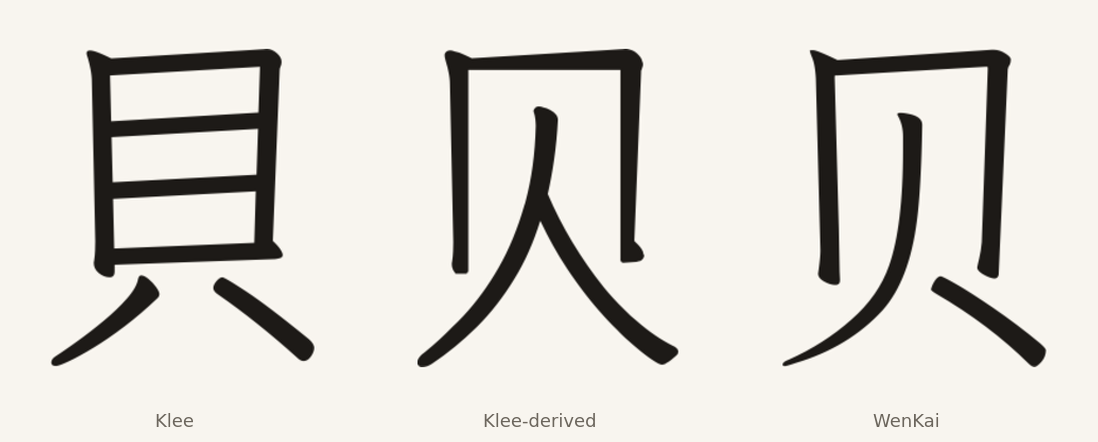
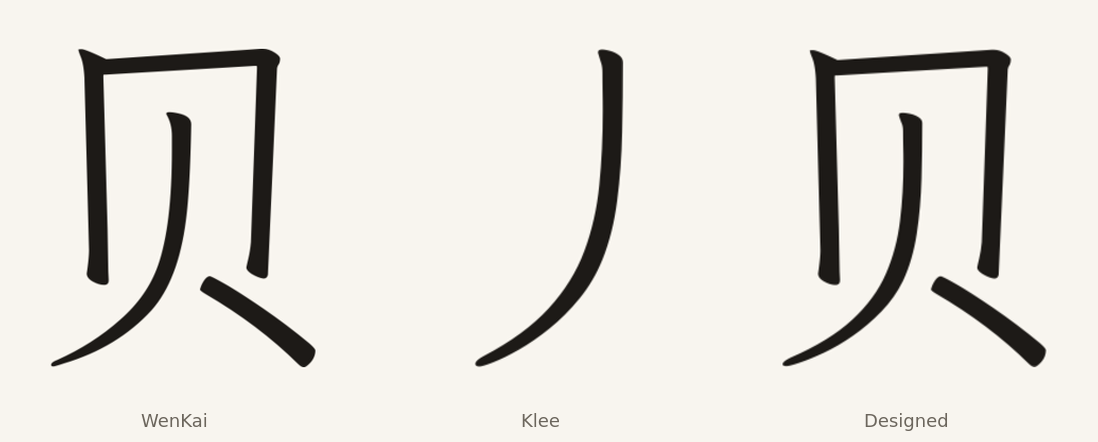
fix: replace only 贝's 丿 with Klee's
Keep WenKai's normalized frame and right dot, which already sit close to
Klee's drawing, and substitute Klee's 丿 U+4E3F for the long left stroke. The
stroke is fitted to the donor 丿's box at 0.916× across and 0.775× down; the
resulting weight residual is 0.993.

diff --git a/docs/bei.md b/docs/bei.md
@@ -1,32 +1,28 @@
-# 贝 from Klee's 貝 and 人
+# 贝 from WenKai's frame and Klee's 丿
 
 贝 U+8D1D is the simplified form of 貝. BabelStone IDS uses it as a leaf in 76
-imported ideographs. Klee draws 貝 with a closed 目 frame and four short legs;
-贝 needs an open 冂 frame and a long 人 inside it.
+imported ideographs. WenKai's frame and right dot are already close to Klee's
+drawing; the long left 丿 is the stroke that differs.
 
-The frame is Klee 貝's outer contour with the 目 interior and bottom bar cut
-away, leaving a 冂. The legs are Klee 人 scaled into the 贝 leg box. The two are
-unioned and dilated 6.5 units to Klee's weight model: measured stroke width 34.0 → 46.5, close to Klee 貝's 45.7 and WenKai
-贝's 44.9. Unlike 鱼, the scaled 人 lost
-weight, so dilation, not erosion, brings it back.
+The design keeps WenKai's normalized frame and right dot and replaces only the
+left 丿 with Klee's 丿 U+4E3F. The Klee stroke is fitted to the donor 丿's box:
+0.916× across and 0.775× down, with the box edges aligned. The resulting glyph
+measures 45.3 against Klee's model target of 45.6, a residual of 0.993.
 
-![Klee 貝, the designed 贝 and WenKai's 贝](images/bei.png)
+![WenKai's 贝, Klee's 丿 and the designed 贝](images/bei.png)
 
-The glyph replaces WenKai's U+8D1D outline in Full only through
-`DESIGNED_IMPORTS`. The retained radical U+2EC9 is a composite over 贝; its donor
-outline is preserved under `u8D1D.donor` and the composite retargeted there, so
-only U+8D1D's resolved outline changes. The Full font gains one more glyph name;
-the encoded repertoire is unchanged.
-
-The frame's inner corners are rectangular rather than Klee's drawn inner
-corners, and the 人 sits a little wider than WenKai's. It needs a text-size
-review before any further use.
+The frame, the right dot and the 1,000-unit advance stay as WenKai normalized
+them. The glyph replaces U+8D1D in Full only through `DESIGNED_IMPORTS`. The
+retained radical U+2EC9 is a composite over 贝; its donor outline is preserved
+under `u8D1D.donor` and the composite retargeted there, so only U+8D1D's resolved
+outline changes. The Full font gains one glyph name; the encoded repertoire is
+unchanged.
 
 ## Checks
 
 `check_editions.py` compares the built glyph with the SVG, checks its weight,
-and verifies every preserved donor component and its resolved composite. The
-same loop covers the U+2EE5 fish radical from the earlier design.
+and verifies the preserved U+2EE5 and U+2EC9 components and their resolved
+composites.
 
 ## Sources
 
